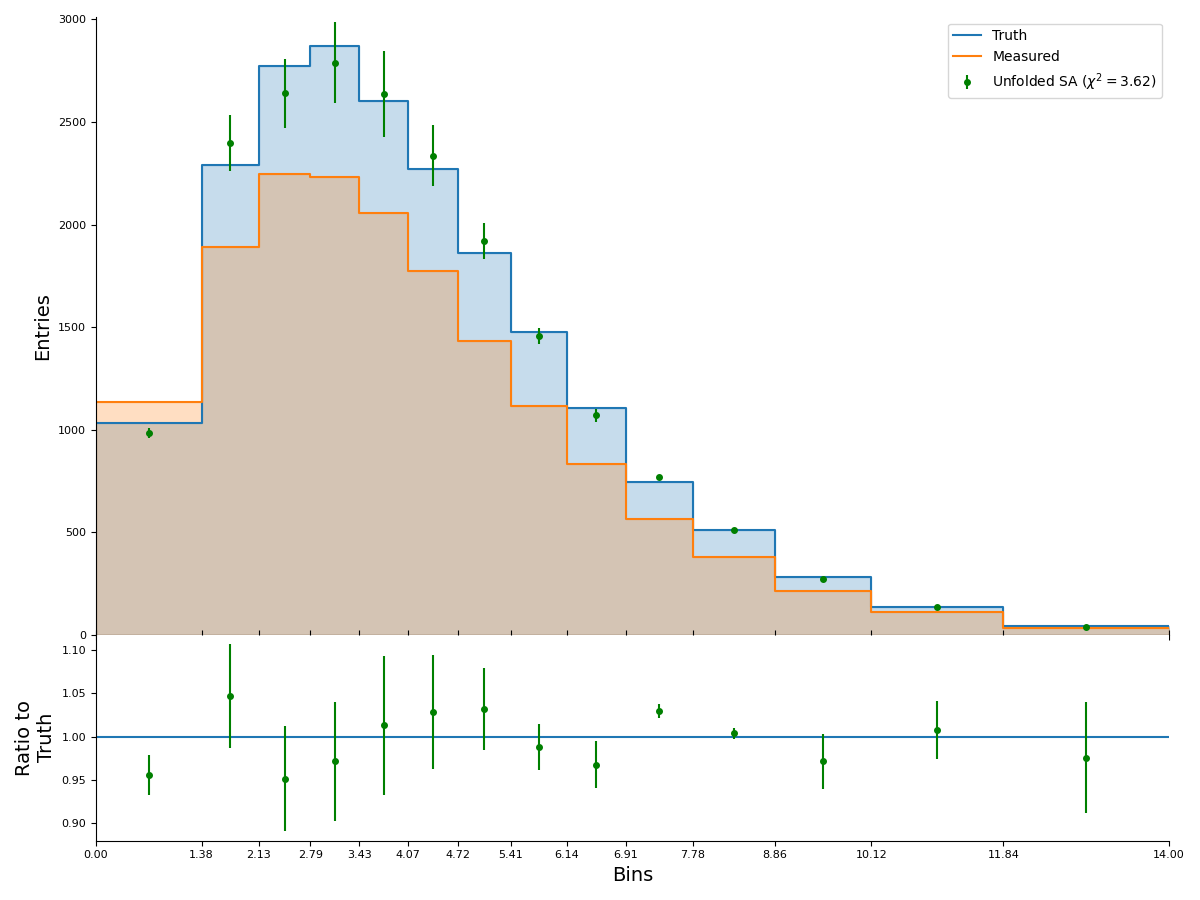
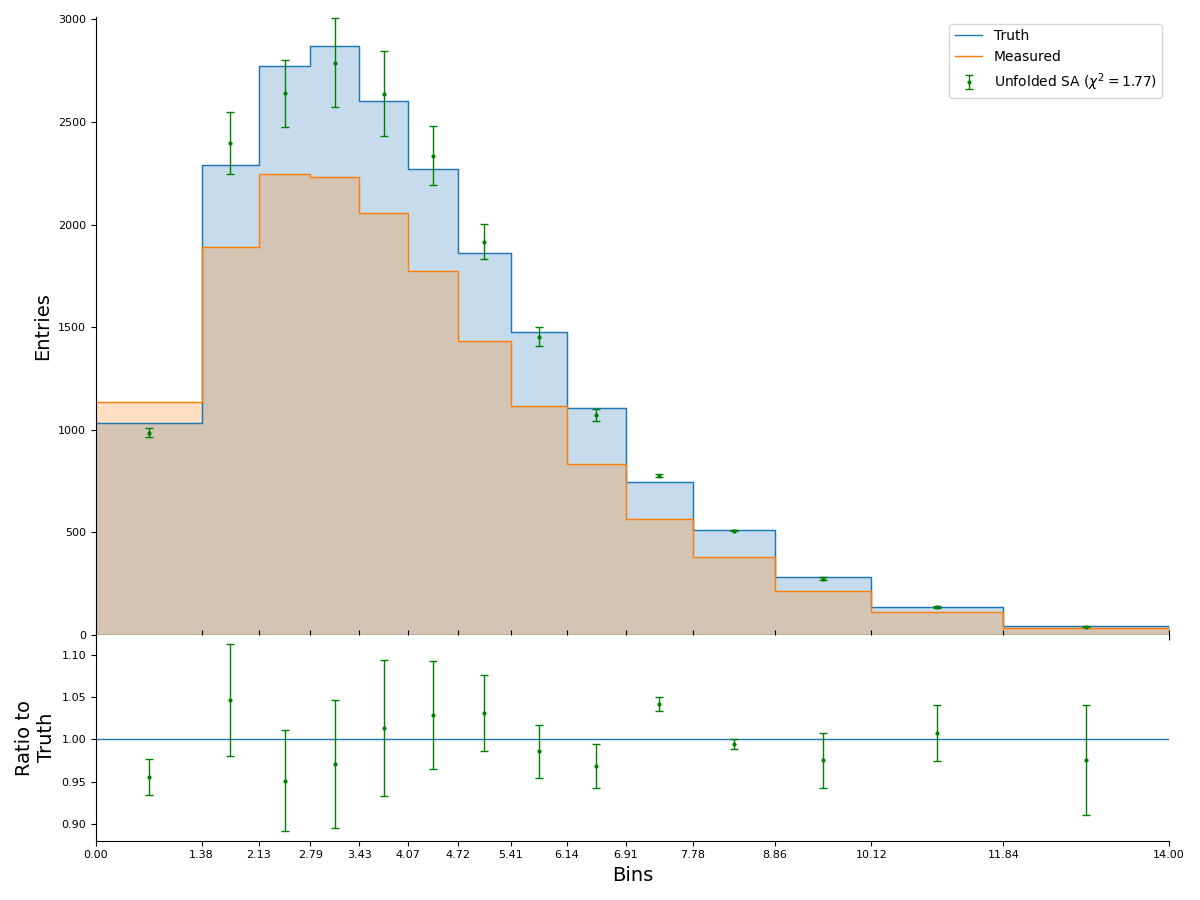
Minor edit to plotting configs for better visualization

diff --git a/src/qunfold/qplotter.py b/src/qunfold/qplotter.py
@@ -19,7 +19,11 @@ figsize = (12, 9)
 chi2_ndigits = 2
 alpha = 0.25
 marker = "o"
-markersize = 4
+markersize = 2
+linewidth = 1
+elinewidth = 1
+capsize = 3
+capthick = 1
 ticks_fontsize = 8
 labels_fontsize = 14
 legend_fontsize = 10
@@ -45,7 +49,7 @@ class QPlotter:
             ylabel = "Frequency"
         hist = np.append(hist, [hist[-1]])
         color = label2color.get(label, default_color)
-        ax.step(xedges, hist, label=label, color=color, where="post")
+        ax.step(xedges, hist, label=label, color=color, where="post", linewidth=linewidth)
         ax.fill_between(xedges, hist, color=color, alpha=alpha, step="post")
         ax.set_ylabel(ylabel, fontsize=labels_fontsize)
         ax.set_ylim(ybottom)
@@ -58,7 +62,19 @@ class QPlotter:
         color = label2color.get(label, default_color)
         rchi2 = round(chi2, ndigits=chi2_ndigits)
         label = rf"Unfolded {label} ($\chi^2 = {rchi2}$)"
-        ax.errorbar(x=xmid, y=hist, yerr=err, label=label, color=color, marker=marker, ms=markersize, linestyle="None")
+        ax.errorbar(
+            x=xmid,
+            y=hist,
+            yerr=err,
+            label=label,
+            color=color,
+            marker=marker,
+            ms=markersize,
+            elinewidth=elinewidth,
+            capsize=capsize,
+            capthick=capthick,
+            linestyle="None",
+        )
         ax.tick_params(labelsize=ticks_fontsize, top=False, right=False, labelbottom=False, reset=True)
         ax.legend(fontsize=legend_fontsize)
         ax.set_xlim(left=xlims[0], right=xlims[1])
@@ -67,9 +83,20 @@ class QPlotter:
 
     @staticmethod
     def ratio_plot(ax, xmid, ratio, err, label, xticks, xlabel="Bins"):
-        ax.axhline(y=1, color=label2color["Truth"])
+        ax.axhline(y=1, color=label2color["Truth"], linewidth=linewidth)
         color = label2color.get(label, default_color)
-        ax.errorbar(x=xmid, y=ratio, yerr=err, color=color, marker=marker, ms=markersize, linestyle="None")
+        ax.errorbar(
+            x=xmid,
+            y=ratio,
+            yerr=err,
+            color=color,
+            marker=marker,
+            ms=markersize,
+            elinewidth=elinewidth,
+            capsize=capsize,
+            capthick=capthick,
+            linestyle="None",
+        )
         ax.tick_params(labelsize=ticks_fontsize, right=False, reset=True)
         ax.set_xticks(xticks)
         ax.set_xlabel(xlabel, fontsize=labels_fontsize)
@@ -105,7 +132,7 @@ class QPlotter:
         widths = np.diff(self.binning)
         xmid = self.binning[:-1] + 0.5 * widths
         xlims = (self.binning[0], self.binning[-1])
-        chi2 = compute_chi2(sol, truth, covariance=cov)
+        chi2 = compute_chi2(observed=sol, expected=truth)
 
         self.histogram_plot(
             ax=ax1, xedges=self.binning, hist=truth, label="Truth", ybottom=self.ybottom, norm=self.norm

diff --git a/studies/comparison.py b/studies/comparison.py
@@ -18,19 +18,18 @@ def plot_comparison(method2sol, method2cov, truth, measured, binning, xlabel):
     QPlotter.histogram_plot(ax=ax1, xedges=binning, hist=measured, label="Measured")
 
     num_points = len(method2sol)
-    xshift = widths / (num_points + 7)
+    xshift = widths / (num_points + 9)
     xlims = (binning[0], binning[-1])
     for i, method in enumerate(method2sol):
-        xpt = binning[:-1] + (i + 4) * xshift
+        xpt = binning[:-1] + (i + 5) * xshift
         sol = method2sol[method][1:-1]
         cov = method2cov[method][1:-1, 1:-1]
         err = np.sqrt(np.diag(cov))
-        chi2 = compute_chi2(sol, truth, covariance=cov)
+        chi2 = compute_chi2(observed=sol, expected=truth)
         QPlotter.errorbar_plot(ax=ax1, xmid=xpt, hist=sol, err=err, xlims=xlims, label=method, chi2=chi2)
         sol_ratio = sol / truth
         err_ratio = err / truth
-        xmid = binning[:-1] + 0.5 * widths
         QPlotter.ratio_plot(
-            ax=ax2, xmid=xmid, ratio=sol_ratio, err=err_ratio, label=method, xticks=binning, xlabel=xlabel
+            ax=ax2, xmid=xpt, ratio=sol_ratio, err=err_ratio, label=method, xticks=binning, xlabel=xlabel
         )
     return fig

diff --git a/studies/paper_acat.py b/studies/paper_acat.py
@@ -25,7 +25,7 @@ var2label = {
     "eta_lep2": r"$\eta^{lep_2}$",
 }
 
-num_reads = 5000
+num_reads = 400
 num_toys = None
 enable_hybrid = False
 enable_quantum = False

diff --git a/studies/analysis.py b/studies/analysis.py
@@ -21,7 +21,7 @@ bias = -0.13
 smearing = 0.21
 eff = 0.7
 
-num_reads = 300
+num_reads = 400
 num_toys = None
 enable_hybrid = False
 enable_quantum = False
